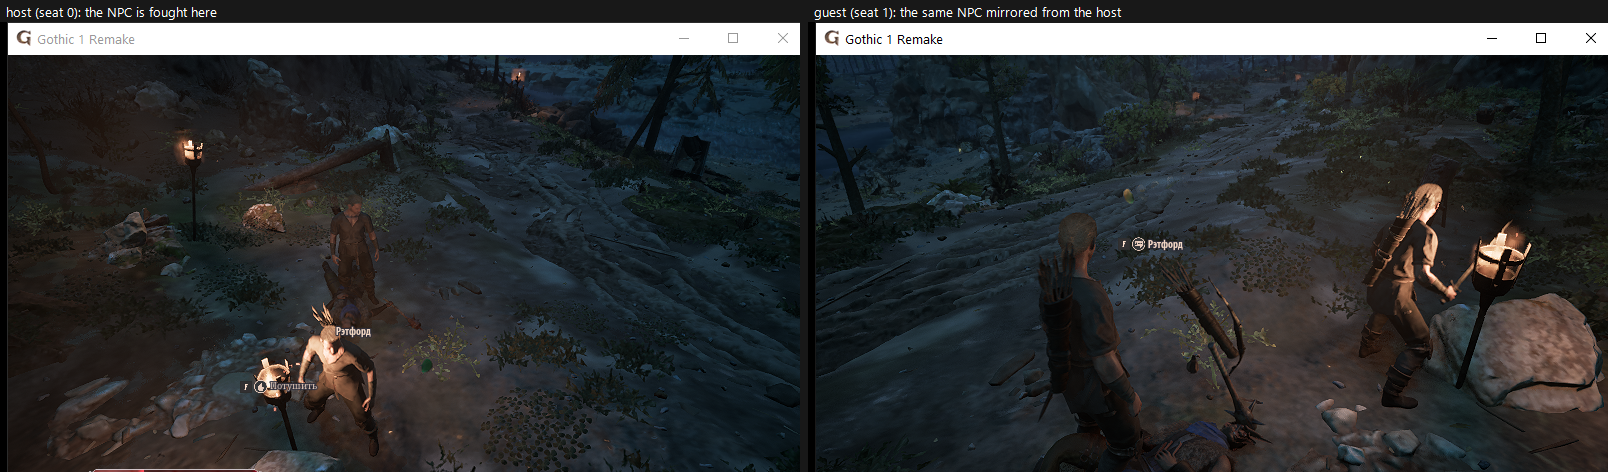
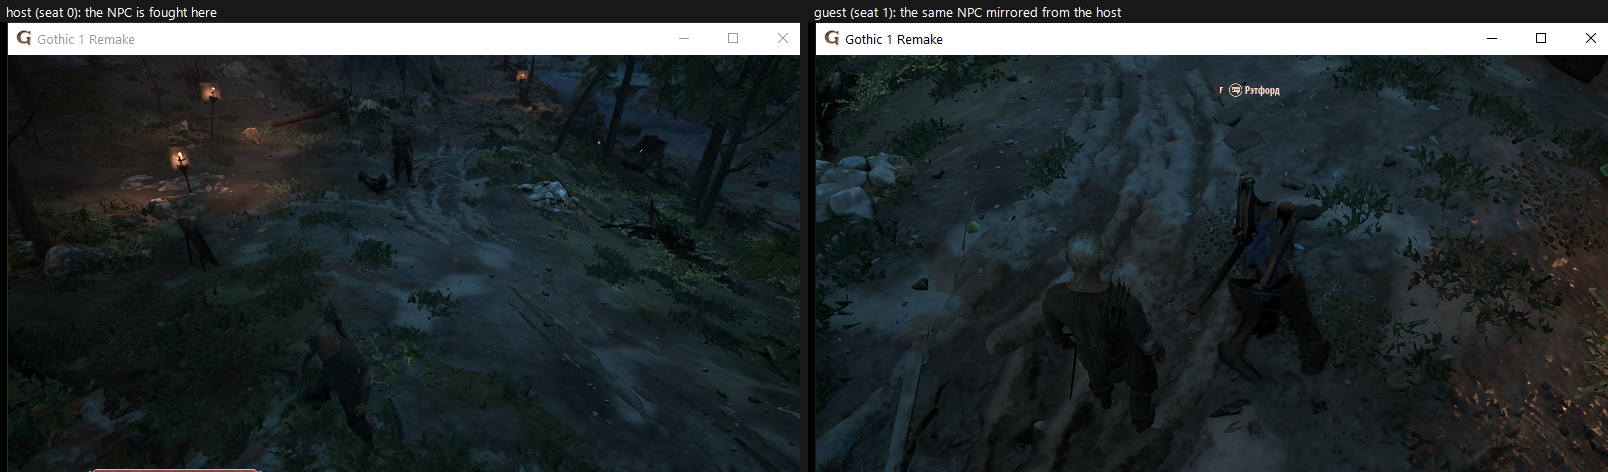
npc: items (sword, bow, quiver, pouch) follow the bone-driven NPC mesh; probe attached command; zoom picture

diff --git a/native/npc_module.c b/native/npc_module.c
@@ -26,7 +26,7 @@ typedef struct { uint32_t id; float x, y, z; int16_t yaw; uint16_t speed; uint8_
 #pragma pack(pop)
 
 typedef struct { double q[4]; double t[3]; double pad0; double s[3]; double pad1; } Transform;   /* FTransform: FQuat, translation, scale */
-typedef struct { uint8_t *comp, *mesh; int nb, nbn, bad; uint8_t fnm[MAXB][8]; char names[MAXB][48]; uint8_t data[MAXB * 12], applied[MAXB * 12]; int have, dirty, napplied; unsigned long t, topt; } GPose;   /* guest: bone-driven copy of one NPC */
+typedef struct { uint8_t *comp, *mesh; int nb, nbn, bad; uint8_t fnm[MAXB][8]; char names[MAXB][48]; uint8_t data[MAXB * 12], applied[MAXB * 12]; int have, dirty, napplied; unsigned long t, topt, titems; } GPose;   /* guest: bone-driven copy of one NPC */
 typedef struct { uint8_t *actor, *mesh; int nb; uint8_t fnm[MAXB][8]; uint8_t last[MAXB * 12]; unsigned long next_t; int interval; } HPose;                                                                                              /* host: cached bone names of one focus NPC */
 typedef struct { uint8_t *actor; uint32_t id; } Known;
 typedef struct { uint8_t *actor, *ctrl; uint32_t id; Rec want; unsigned long last_seen; int frozen; double cur[3]; int have_cur; int unposs; char anim[320]; GPose *gp; } Mirror;
@@ -297,11 +297,37 @@ static void tickopt_off(CoreAPI *a, uint8_t *actor)
     a->call_fn(sys, "BFGTickOptimizerSystem", "SetTickOptimizationRuntime_Enabled", 2, names, vals, sizes, NULL, 0);
 }
 
+/* Weapons, quiver, bow ... are separate actors attached to the NPC's original mesh sockets. While the NPC is bone-driven that mesh stays hidden in the animation blueprint's pose, so
+ * the items would float where the NPC used to stand: move every item that hangs on `from` to the same socket of `to` (and back when the bone-driven mesh goes away). */
+static int reparent_items(CoreAPI *a, uint8_t *from, uint8_t *to, uint8_t *owner_actor)
+{
+    int oat = a->find_prop_offset(a->obj_class(from), "AttachChildren"); if (oat < 0) return 0;
+    uint8_t *kids = NULL; int nk = 0; a->read_mem(from + oat, &kids, 8); a->read_mem(from + oat + 8, &nk, 4);
+    if (!kids || nk <= 0 || nk > 100) return 0;
+    uint8_t *list[100]; int n = 0;
+    for (int i = 0; i < nk; i++) { uint8_t *comp = NULL; a->read_mem(kids + (size_t)i * 8, &comp, 8); if (comp && comp != to) list[n++] = comp; }   /* copy first: attaching changes the array */
+    int moved = 0;
+    for (int i = 0; i < n; i++) {
+        uint8_t *comp = list[i], *o = NULL; a->read_mem(comp + 0x20, &o, 8);                 /* a component's outer is its actor */
+        if (!o || o == owner_actor || !a->obj_alive(o, NULL)) continue;
+        if (ptr_prop(a, o, "RootComponent") != comp) continue;                                 /* only whole item actors, not parts of the NPC itself */
+        int os = a->find_prop_offset(a->obj_class(comp), "AttachSocketName"); char sock[96] = "None";
+        if (os >= 0) a->fname_to_str(comp + os, sock, sizeof sock);
+        uint8_t snap = 2, weld = 0; uint8_t *par = to;
+        const char *n3[6] = { "Parent", "SocketName", "LocationRule", "RotationRule", "ScaleRule", "bWeldSimulatedBodies" };
+        const void *v3[6] = { &par, sock, &snap, &snap, &snap, &weld }; int s3[6] = { 8, -1, 1, 1, 1, 1 };
+        a->call_fn(comp, "SceneComponent", "K2_AttachToComponent", 6, n3, v3, s3, NULL, 0);
+        moved++;
+    }
+    return moved;
+}
+
 /* ---- guest: bone-driven NPC (a PoseableMeshComponent with the NPC's own mesh asset, the original mesh hidden) ---- */
 static void gp_drop(CoreAPI *a, Mirror *m)
 {
     if (!m->gp) return;
     GPose *g = m->gp;
+    if (g->comp && a->obj_alive(g->comp, NULL) && g->mesh && a->obj_alive(g->mesh, NULL)) reparent_items(a, g->comp, g->mesh, m->actor);
     if (g->comp && a->obj_alive(g->comp, NULL)) { const char *n[1] = { "Object" }; const void *v[1] = { &g->comp }; int s[1] = { 8 }; a->call_fn(g->comp, "ActorComponent", "K2_DestroyComponent", 1, n, v, s, NULL, 0); }
     if (m->actor && a->obj_alive(m->actor, NULL)) { uint8_t *mesh = ptr_prop(a, m->actor, "Mesh"); if (mesh) set_visible(a, mesh, 1); }
     free(g); m->gp = NULL;
@@ -333,12 +359,15 @@ static int gp_ensure(CoreAPI *a, Mirror *m, GPose *g)
     { int lod0 = 1; const char *nn[1] = { "InNewForcedLOD" }; const void *vv[1] = { &lod0 }; int ss[1] = { 4 }; a->call_fn(comp, "SkinnedMeshComponent", "SetForcedLOD", 1, nn, vv, ss, NULL, 0); }
     set_visible(a, comp, 1); set_visible(a, mesh, 0);
     g->comp = comp; g->mesh = mesh; g->nbn = 0; g->napplied = 0;
+    { int mv = reparent_items(a, mesh, comp, m->actor); if (mv) a->log("N guest: %d item(s) of NPC %p moved to its bone-driven mesh", mv, m->actor); }
     a->log("N guest: NPC %p now bone-driven (poseable %p)", m->actor, comp);
     return 1;
 }
 static void gp_apply(CoreAPI *a, Mirror *m)
 {
-    GPose *g = m->gp; if (!g || !g->dirty || g->bad) return;
+    GPose *g = m->gp; if (!g || g->bad) return;
+    if (g->comp && g->mesh && GetTickCount() - g->titems > 1000) { g->titems = GetTickCount(); if (a->obj_alive(g->comp, NULL) && a->obj_alive(g->mesh, NULL)) { int mv = reparent_items(a, g->mesh, g->comp, m->actor); if (mv) a->log("N guest: %d new item(s) of NPC %p moved to its bone-driven mesh", mv, m->actor); } }
+    if (!g->dirty) return;
     g->dirty = 0;
     if (!gp_ensure(a, m, g)) return;
     if (g->nbn != g->nb) {

diff --git a/native/probe_module.c b/native/probe_module.c
@@ -325,6 +325,27 @@ static void run_command(char *line)
         const char *n3[4] = { "Action", "RawValue", "Modifiers", "Triggers" }; const void *v3[4] = { &act, raw, empty, empty }; int s3[4] = { 8, 32, 16, 16 };
         P("inject %s ran: %d", tok[1], A->call_fn(sub, "EnhancedInputSubsystemInterface", "InjectInputForAction", 4, n3, v3, s3, NULL, 0)); return;
     }
+    if (!strcmp(c, "attached") && nt >= 2) {                            /* attached <npc ptr>: components hanging on its mesh (and on a bone-driven poseable child) with the owner actor's world position */
+        uint8_t *npc = ptr_of(tok[1]); if (!live(npc)) { P("not a live object"); return; }
+        double nl[3] = { 0 }; A->call_fn(npc, "Actor", "K2_GetActorLocation", 0, NULL, NULL, NULL, nl, 24); P("npc at %.0f %.0f %.0f", nl[0], nl[1], nl[2]);
+        int om = A->find_prop_offset(A->obj_class(npc), "Mesh"); uint8_t *mesh = NULL; if (om >= 0) A->read_mem(npc + om, &mesh, 8);
+        uint8_t *lists[2] = { mesh, NULL };
+        for (int pass = 0; pass < 2 && lists[pass]; pass++) {
+            int oat = A->find_prop_offset(A->obj_class(lists[pass]), "AttachChildren"); uint8_t *kids = NULL; int nk = 0;
+            if (oat >= 0) { A->read_mem(lists[pass] + oat, &kids, 8); A->read_mem(lists[pass] + oat + 8, &nk, 4); }
+            if (nk < 0 || nk > 60) nk = 0;
+            for (int i = 0; i < nk; i++) {
+                uint8_t *comp = NULL, *o = NULL; A->read_mem(kids + (size_t)i * 8, &comp, 8); if (!comp) continue; A->read_mem(comp + 0x20, &o, 8);
+                char cc[96] = "", oc[96] = "", sock[96] = "-"; A->obj_name(A->obj_class(comp), cc, sizeof cc); if (o) A->obj_name(A->obj_class(o), oc, sizeof oc);
+                int os = A->find_prop_offset(A->obj_class(comp), "AttachSocketName"); if (os >= 0) A->fname_to_str(comp + os, sock, sizeof sock);
+                double ol[3] = { 0 }; if (o && o != npc) A->call_fn(o, "Actor", "K2_GetActorLocation", 0, NULL, NULL, NULL, ol, 24);
+                double d = sqrt((ol[0]-nl[0])*(ol[0]-nl[0]) + (ol[1]-nl[1])*(ol[1]-nl[1]) + (ol[2]-nl[2])*(ol[2]-nl[2]));
+                P("  %s child: %s of %s, socket %s, dist to npc %.0f  (z %.0f)", pass ? "poseable" : "mesh", cc, oc, sock, d, ol[2] - nl[2]);
+                if (!pass && strstr(cc, "Poseable") && !lists[1]) lists[1] = comp;
+            }
+        }
+        return;
+    }
     if (!strcmp(c, "npcs")) {                                           /* characters in the world with their class chain and distance to the hero */
         double rad = nt > 1 ? atof(tok[1]) : 3000, hp[3] = {0,0,0}; int max = nt > 2 ? atoi(tok[2]) : 20, shown = 0, total = 0;
         if (A->hero) A->call_fn(A->hero, "Actor", "K2_GetActorLocation", 0, NULL, NULL, NULL, hp, 24);
